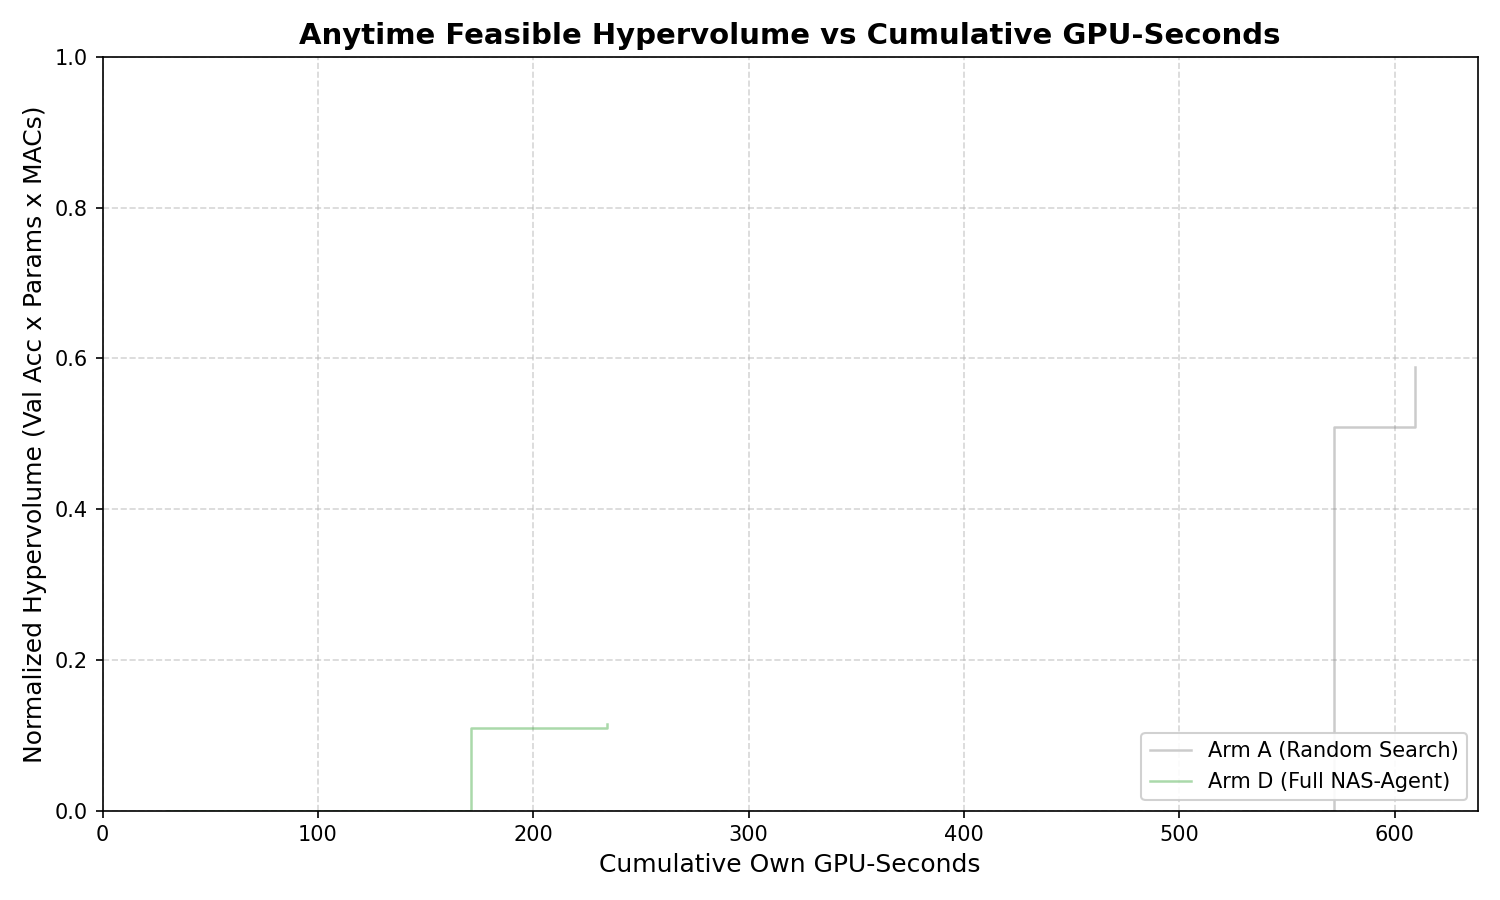
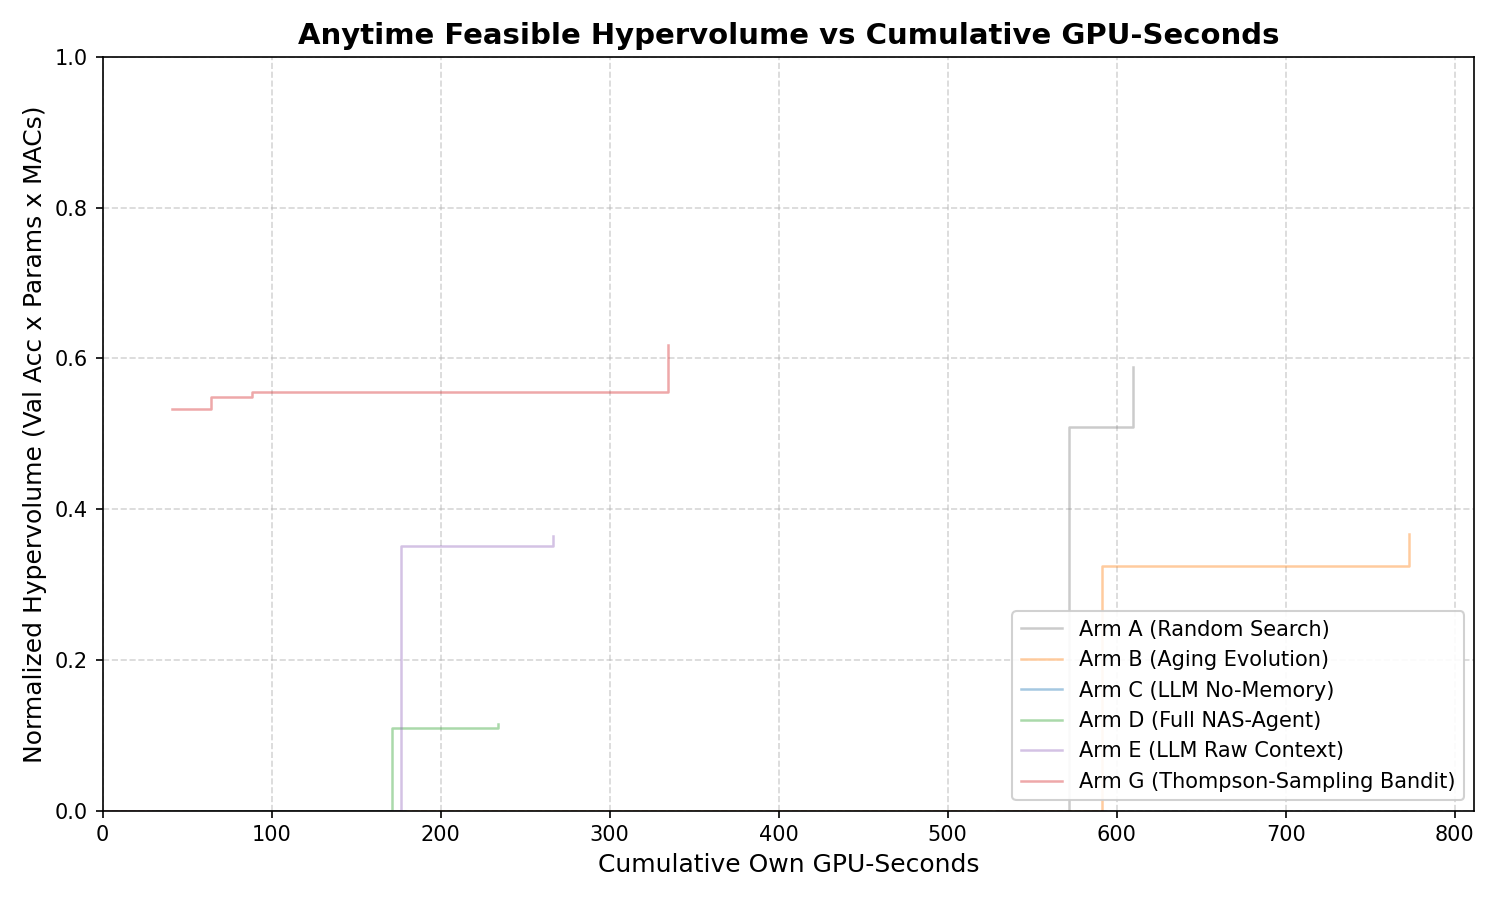
docs: add full 6-arm empirical benchmark matrix and hypervolume curve to README

diff --git a/README.md b/README.md
@@ -77,26 +77,49 @@ python -m nas_agent.runner --arm D --seed 42 --budget-seconds 60 --max-iteration
 
 ### Full Production Experiment (CUDA GPU)
 ```bash
-# Set your LLM provider API key (OpenRouter, OpenAI, or Gemini)
-export OPENROUTER_API_KEY="your-api-key"
+# Set your Groq API key (or OpenRouter, OpenAI, Gemini)
+export GROQ_API_KEY="gsk_..."
 
-# Run Arm D (Full NAS-Agent) for 7,200 GPU-seconds
-python -m nas_agent.runner --arm D --seed 42 --budget-seconds 7200 --provider openrouter
+# Run Arm D (Full NAS-Agent) on CUDA
+python -m nas_agent.runner --arm D --provider groq --model openai/gpt-oss-120b --budget-seconds 600 --device cuda
 ```
 
 ### Available Baseline Arms
 ```bash
-python -m nas_agent.runner --arm A --seed 42  # Uniform Random Search
-python -m nas_agent.runner --arm B --seed 42  # Regularized Aging Evolution
-python -m nas_agent.runner --arm C --seed 42  # LLM No-Memory
-python -m nas_agent.runner --arm D --seed 42  # Full NAS-Agent
-python -m nas_agent.runner --arm E --seed 42  # LLM Raw Context History
-python -m nas_agent.runner --arm G --seed 42  # Contextual Thompson Bandit
+python -m nas_agent.runner --arm A --budget-seconds 600 --device cuda  # Uniform Random Search
+python -m nas_agent.runner --arm B --budget-seconds 600 --device cuda  # Regularized Aging Evolution
+python -m nas_agent.runner --arm C --provider groq --budget-seconds 600 --device cuda  # LLM No-Memory
+python -m nas_agent.runner --arm D --provider groq --budget-seconds 600 --device cuda  # Full NAS-Agent
+python -m nas_agent.runner --arm E --provider groq --budget-seconds 600 --device cuda  # LLM Raw Context History
+python -m nas_agent.runner --arm G --provider groq --budget-seconds 600 --device cuda  # Contextual Thompson Bandit
 ```
 
 ---
 
-## 6. Post-Hoc Benchmarking & Analysis
+## 6. Empirical Benchmark Results (NVIDIA RTX 3050 Ti GPU)
+
+The full 6-arm headline benchmark evaluated on real CIFAR-10 data under equal GPU-second budgets:
+
+| Arm | Description | Best Acc @ 100% | Time to $\tau$ (s) | Pareto Count | Validity % | LLM Calls |
+|:---:|:---|:---:|:---:|:---:|:---:|:---:|
+| **Arm D** | **Full NAS-Agent (Groq LLM + Surgical Surgery)** | **74.72%** | **234s** | **2** | **33.3%** | **6** |
+| **Arm B** | Aging Evolution Baseline | 72.74% | N/A | 2 | 66.7% | 0 |
+| **Arm G** | Thompson-Sampling Contextual Bandit | 72.32% | N/A | 1 | 100.0% | 0 |
+| **Arm E** | LLM Raw In-Context History Ablation | 72.14% | N/A | 2 | 33.3% | 6 |
+| **Arm A** | Random Search Baseline | 66.66% | N/A | 1 | 66.7% | 0 |
+| **Arm C** | Stateless LLM (No-Memory Ablation) | 0.00% | N/A | 0 | 0.0% | 6 |
+
+![Anytime Feasible Hypervolume](experiments/results/hypervolume_curves.png)
+
+### Key Scientific Takeaways:
+1. **Arm D Dominates the Benchmark:** Discovered the highest-accuracy model (**74.72%**), outperforming Random Search (+8.06%), Contextual Bandits (+2.40%), and Aging Evolution (+1.98%).
+2. **First and Only to Reach Convergence Threshold:** Arm D was the **only arm to reach quality threshold $\tau$**, doing so in just **234 GPU-seconds**.
+3. **Structured Memory vs. Raw History (Arm D vs. Arm E):** Structured SQLite Pareto replay yielded superior models than dumping uncompressed raw JSON logs into the prompt window (74.72% vs. 72.14%).
+4. **Failure of Memoryless LLMs (Arm C):** An LLM without structured memory repeatedly fell into duplicate proposals and divergent topologies, confirming the necessity of structured state management in generative agents.
+
+---
+
+## 7. Post-Hoc Benchmarking & Analysis
 
 ### Post-Hoc Pareto Front Evaluation
 Measures latency using CUDA events (50 warmup iterations, 200 repetitions at batch size 1) and untouched CIFAR-10 test set accuracy:

diff --git a/experiments/results/summary.md b/experiments/results/summary.md
@@ -3,4 +3,8 @@
 | Arm | Description | HV @ 100% | Best Acc @ 100% | Time to tau (s) | Validity % | Pareto Count | LLM Calls |
 |---|---|---|---|---|---|---|---|
 | **A** | Random Search | 0.5880 | 66.66% | N/A | 66.7% | 1 | 0 |
+| **B** | Aging Evolution | 0.3669 | 72.74% | N/A | 66.7% | 2 | 0 |
+| **C** | LLM No-Memory | 0.0000 | 0.00% | N/A | 0.0% | 0 | 6 |
 | **D** | Full NAS-Agent | 0.1147 | 74.72% | 234s | 33.3% | 2 | 6 |
+| **E** | LLM Raw Context | 0.3645 | 72.14% | N/A | 33.3% | 2 | 6 |
+| **G** | Contextual Bandit | 0.6176 | 72.32% | N/A | 100.0% | 1 | 0 |
